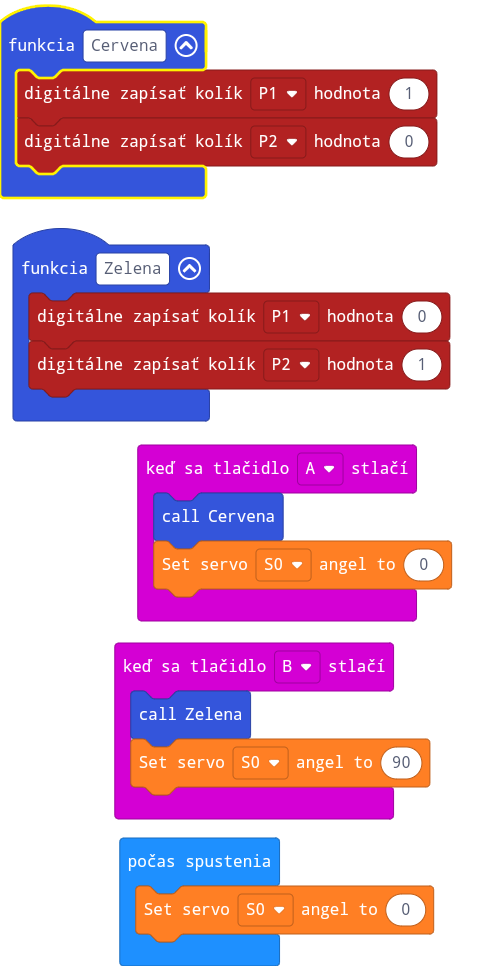
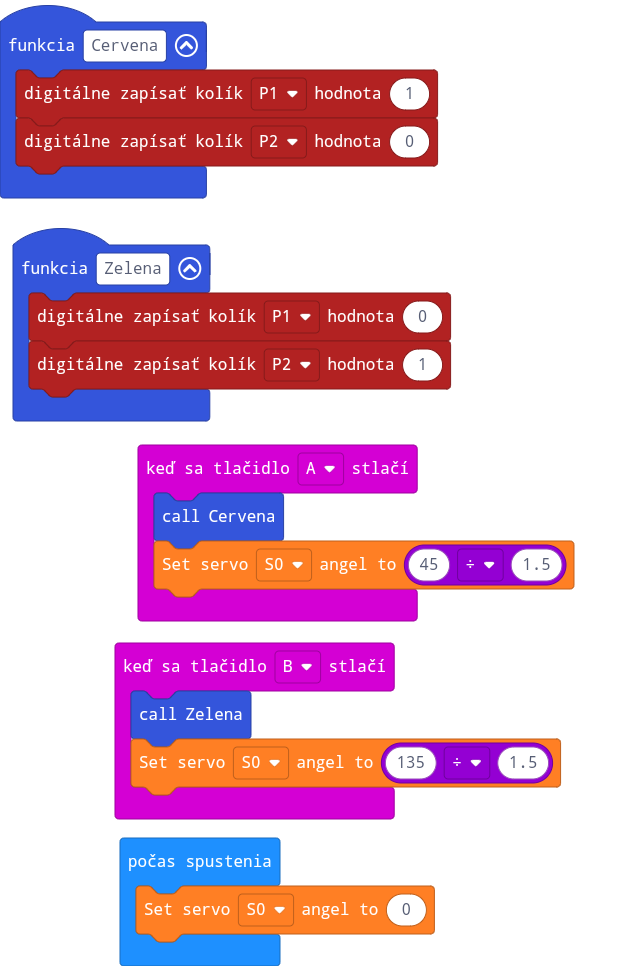
Update main.blocks, main.ts

Changed region(s): [[0.1786, 0.4348, 0.9226, 1.0], [0.0, 0.0, 0.8929, 0.4348]]

diff --git a/main.ts b/main.ts
@@ -1,6 +1,6 @@
 input.onButtonPressed(Button.A, function () {
     Cervena()
-    wuKong.setServoAngel(wuKong.ServoList.S0, 0)
+    wuKong.setServoAngel(wuKong.ServoList.S0, 45 / 1.5)
 })
 function Zelena () {
     pins.digitalWritePin(DigitalPin.P1, 0)
@@ -8,7 +8,7 @@ function Zelena () {
 }
 input.onButtonPressed(Button.B, function () {
     Zelena()
-    wuKong.setServoAngel(wuKong.ServoList.S0, 90)
+    wuKong.setServoAngel(wuKong.ServoList.S0, 135 / 1.5)
 })
 function Cervena () {
     pins.digitalWritePin(DigitalPin.P1, 1)
